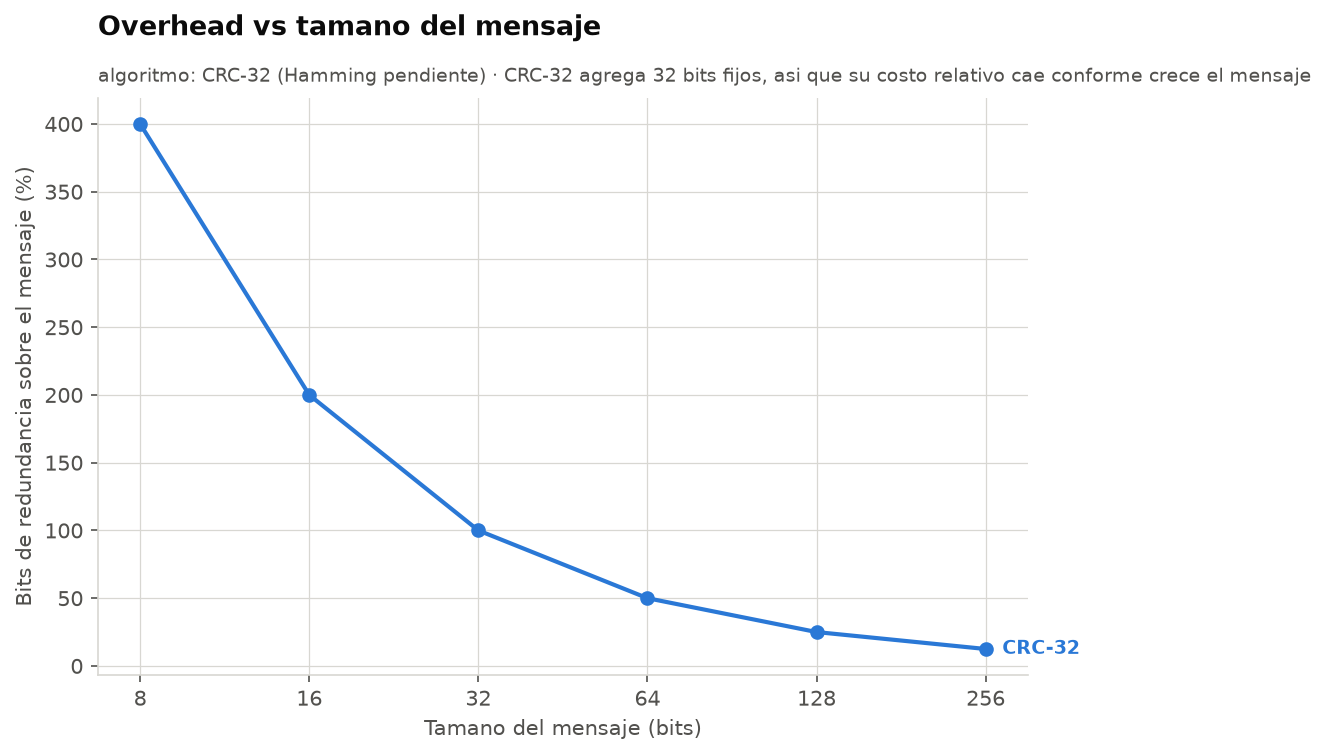
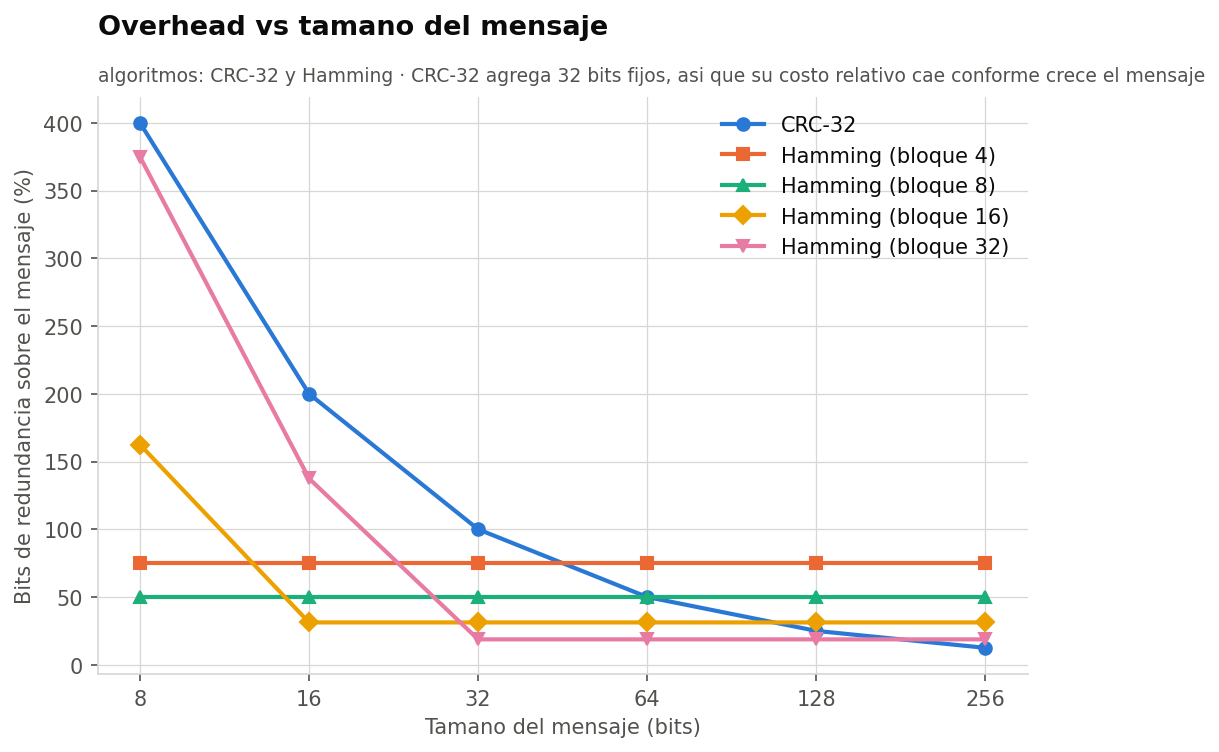
update: tests Hamming

diff --git a/pruebas/algoritmos_emisor.py b/pruebas/algoritmos_emisor.py
@@ -13,18 +13,36 @@ aparte, y por eso sirve para dos cosas a la vez:
 POLINOMIO_REFLEJADO = 0xEDB88320
 BITS_CRC = 32
 
-
 def crc32_encode(bits):
-    """Recibe un string de bits y devuelve ese string con 32 bits de CRC.
+    """Agrega 32 bits de CRC-32 a un string de bits."""
+    if not isinstance(bits, str):
+        raise ValueError(
+            "bits debe ser un string"
+        )
 
-    Espejo exacto de CRC32Encode del emisor en Go.
-    """
+    if any(bit not in "01" for bit in bits):
+        raise ValueError(
+            "el mensaje contiene caracteres que no son bits"
+        )
+
     if len(bits) % 8 != 0:
-        raise ValueError(f"CRC-32 necesita multiplo de 8 bits, llegaron {len(bits)}")
+        raise ValueError(
+            "CRC-32 necesita múltiplo de 8 bits, "
+            f"llegaron {len(bits)}"
+        )
 
-    octetos = bytes(int(bits[i:i + 8], 2) for i in range(0, len(bits), 8))
-    return bits + format(calcular_crc(octetos), "032b")
+    octetos = bytes(
+        int(bits[i:i + 8], 2)
+        for i in range(0, len(bits), 8)
+    )
 
+    return (
+        bits
+        + format(
+            calcular_crc(octetos),
+            "032b",
+        )
+    )
 
 def calcular_crc(datos):
     """CRC-32 reflejado: init 0xFFFFFFFF, entrada y salida reflejadas, XOR final."""
@@ -41,6 +59,24 @@ def calcular_crc(datos):
     return crc ^ 0xFFFFFFFF
 
 
+def calcular_r(m):
+    """Devuelve el mínimo r que cumple m + r + 1 <= 2**r."""
+    if (
+        not isinstance(m, int)
+        or isinstance(m, bool)
+        or m <= 0
+    ):
+        raise ValueError(
+            "tam_bloque debe ser un entero positivo"
+        )
+
+    r = 1
+
+    while (m + r + 1) > 2 ** r:
+        r += 1
+
+    return r
+
 def _es_potencia_de_dos(valor):
     return (
         valor > 0
@@ -50,12 +86,20 @@ def _es_potencia_de_dos(valor):
 def hamming_encode(bits, tam_bloque):
     """Codifica un string de bits utilizando código de Hamming.
 
-    Esta función debe producir exactamente la misma trama que
-    HammingEncode del emisor en Go.
+    Esta función produce la misma trama que HammingEncode
+    del emisor implementado en Go.
     """
+    # Las validaciones deben ejecutarse antes de cualquier división o módulo.
     if not isinstance(bits, str):
+        raise ValueError("bits debe ser un string")
+
+    if (
+        not isinstance(tam_bloque, int)
+        or isinstance(tam_bloque, bool)
+        or tam_bloque <= 0
+    ):
         raise ValueError(
-            "bits debe ser un string"
+            "tam_bloque debe ser un entero positivo"
         )
 
     if any(bit not in "01" for bit in bits):
@@ -63,11 +107,11 @@ def hamming_encode(bits, tam_bloque):
             "el mensaje contiene caracteres que no son bits"
         )
 
-    r = calcular_r(tam_bloque)
-    n = tam_bloque + r
-
     if bits == "":
         return ""
+
+    r = calcular_r(tam_bloque)
+    n = tam_bloque + r
 
     relleno = (
         tam_bloque - len(bits) % tam_bloque
@@ -88,17 +132,15 @@ def hamming_encode(bits, tam_bloque):
         bloque = ["0"] * n
         indice_dato = 0
 
-        # Colocar los datos en posiciones que no son potencias de dos.
+        # Colocar datos en posiciones que no sean potencias de dos.
         for posicion in range(1, n + 1):
             if _es_potencia_de_dos(posicion):
                 continue
 
-            bloque[posicion - 1] = (
-                datos[indice_dato]
-            )
+            bloque[posicion - 1] = datos[indice_dato]
             indice_dato += 1
 
-        # Calcular los bits de paridad par.
+        # Calcular paridad par.
         posicion_paridad = 1
 
         while posicion_paridad <= n:
@@ -111,10 +153,7 @@ def hamming_encode(bits, tam_bloque):
                 ):
                     paridad ^= 1
 
-            bloque[posicion_paridad - 1] = str(
-                paridad
-            )
-
+            bloque[posicion_paridad - 1] = str(paridad)
             posicion_paridad <<= 1
 
         salida.extend(bloque)
